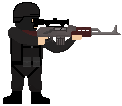
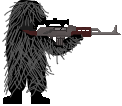
Added new classes and sprites
-Added a medic and sniper with their own sprites
-Only medic actually has changed values as of now
-Has a passive heal of 5 and when defending heals for 10

Changed region(s): [[0.0, 0.0, 0.6885, 0.934]]

diff --git a/scenes/battle.py b/scenes/battle.py
@@ -92,6 +92,11 @@ class BattleScreen(GameState):
                 self.attacking_temp = troop
             elif self.defending:
                 self.player_troops[troop].defense_boost()
+                if self.player_troops[troop].type == 1:
+                    self.player_troops[len(self.player_troops)-1].heal(10)
+                    self.player_troops[len(self.player_troops)-2].heal(10)
+                    self.player_troops[len(self.player_troops)-3].heal(10)
+                    self.player_troops[troop].heal(-10)
                 self.defending = False
                 self.moves_left -= 1
             elif self.moving and self.moving_temp is None:
@@ -243,8 +248,14 @@ class BattleScreen(GameState):
             for (i, troop) in enumerate(reversed(current)):
                 if i == 0:
                     troop.attack_boost()
-                if i == 1 and i == 2:
+                if i == 1 or i == 2:
                     troop.defense_boost()
+                    if troop.type == 1 and i == 1:
+                        current[len(current)-1].heal(5)
+                        current[len(current)-3].heal(5)
+                    elif troop.type == 1 and i == 2:
+                        current[len(current)-1].heal(5)
+                        current[len(current)-2].heal(5)
                 if i == 3:
                     break
 
@@ -310,10 +321,18 @@ class BattleScreen(GameState):
         # read in troops
         self.player_troops = []
         self.ai_troops = []
+        self.soldier_type = 0
         for troop in range(self.player.troops[str(self.player_region)]):
-            self.player_troops.append(Troop())
+            self.player_troops.append(Troop(t=self.soldier_type))
+            self.soldier_type = self.soldier_type + 1
+            if self.soldier_type > 2:
+                self.soldier_type = 0
+        self.soldier_type = 0
         for troop in range(self.ai.troops[str(self.ai_region)]):
-            self.ai_troops.append(Troop(ai=True))
+            self.ai_troops.append(Troop(ai=True, t=self.soldier_type))
+            self.soldier_type = self.soldier_type + 1
+            if self.soldier_type > 2:
+                self.soldier_type = 0
 
     def distribute_troops(self):
         # PLAYER attacked AI region

diff --git a/classes/troop.py b/classes/troop.py
@@ -10,15 +10,24 @@ except ImportError as err:
 
 class Troop:
 
-    def __init__(self, x=0, y=0, ai=False):
+    def __init__(self, x=0, y=0, ai=False, t=0):
         self.x, self.y = x, y  # position to draw troop
         self.health = 100  # troop's health
         self.ai = ai  # flag for specifying if troop is ai
+        self.type = t  # 0 = default, 1 = medic, 2 = sniper
         self.default_stats()  # default all troops state
         # read in sprite image for troop
         # if ai, flip the image
-        if self.ai:
+        if self.ai and self.type == 0:
+            self.image = pygame.transform.flip(pygame.image.load(os.path.join('assets', 'ai_commando.png')), True, False)
+        elif self.ai and self.type == 1:
+            self.image = pygame.transform.flip(pygame.image.load(os.path.join('assets', 'ai_medic.png')), True, False)
+        elif self.ai and self.type == 2:
             self.image = pygame.transform.flip(pygame.image.load(os.path.join('assets', 'ai_soldier.png')), True, False)
+        elif not self.ai and self.type == 0:
+            self.image = pygame.image.load(os.path.join('assets', 'player_commando.png'))
+        elif not self.ai and self.type == 1:
+            self.image = pygame.image.load(os.path.join('assets', 'player_medic.png'))
         else:
             self.image = pygame.image.load(os.path.join('assets', 'player_soldier.png'))
         # rectangle surrounding troop (useful for detecting clicks)
@@ -49,6 +58,12 @@ class Troop:
     # add defense boost to troop
     def defense_boost(self):
         self.defense += 10
+
+    # add healing property
+    def heal(self,num):
+        self.health += num
+        if self.health > 100:
+            self.health = 100
 
     # set stats to default values
     def default_stats(self):
